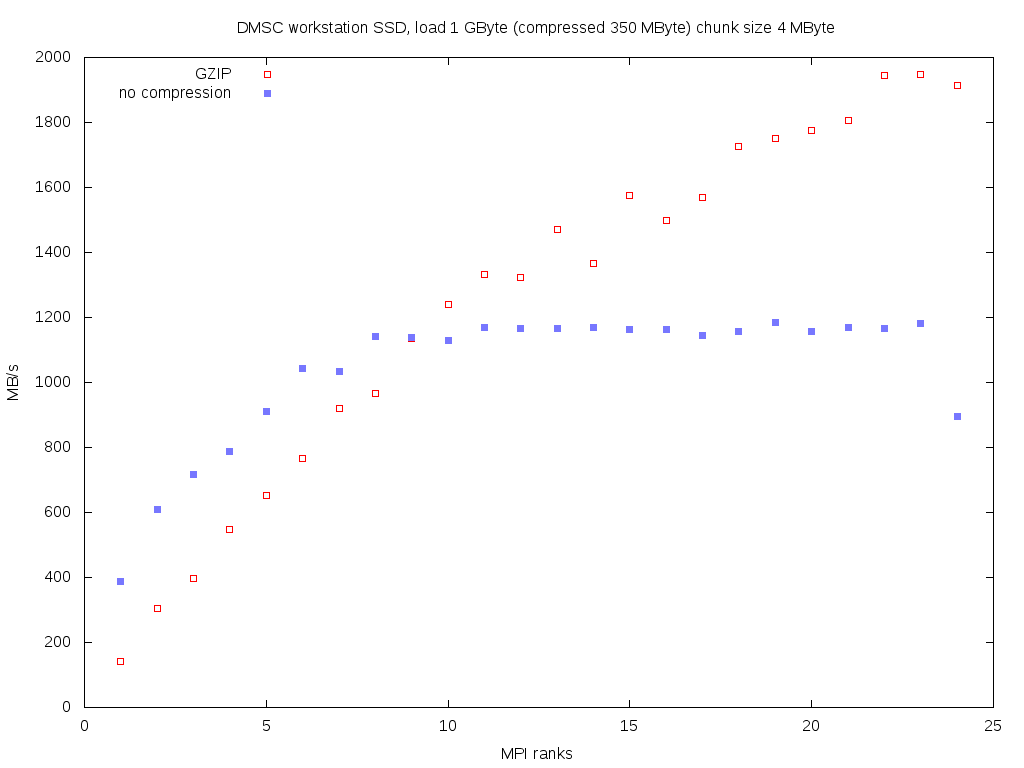
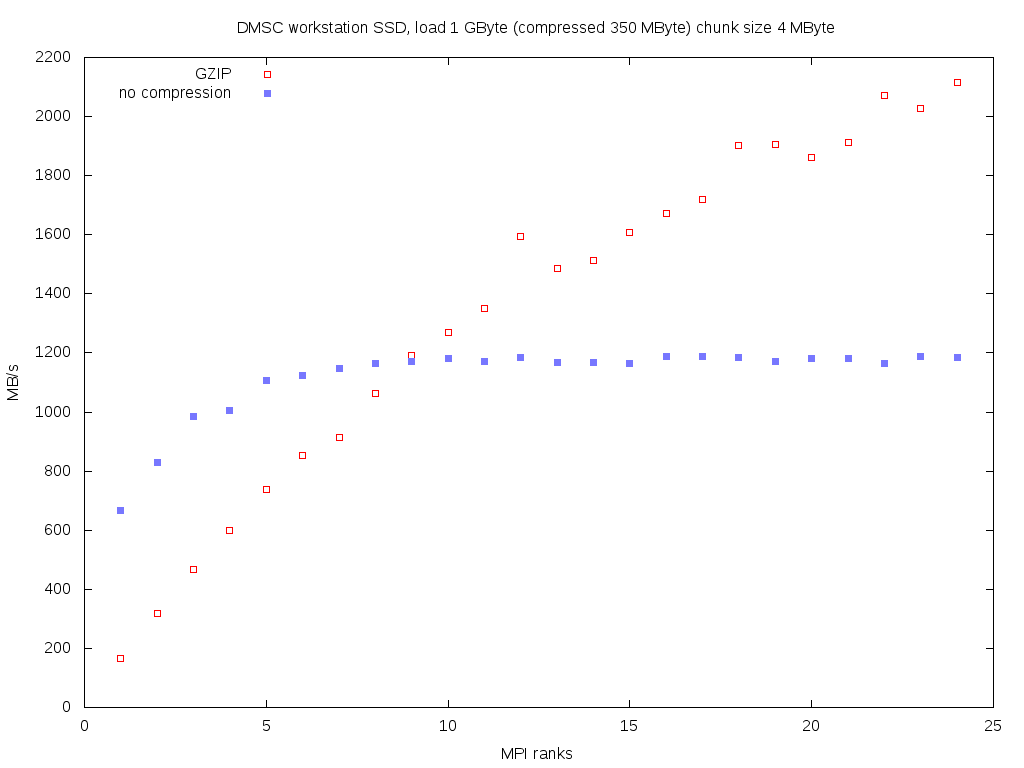
Optimized build, leading to updated results plot.

diff --git a/src/load_parallel.cpp b/src/load_parallel.cpp
@@ -1,5 +1,4 @@
 #include <stdio.h>
-#include <chrono>
 #include <vector>
 
 #include <boost/mpi.hpp>
@@ -14,13 +13,14 @@ int main(int argc, char **argv) {
 
   // /home/simon/mantid/nexus/load-performance/sample-files/no-compression.nxs
   // /home/simon/mantid/nexus/load-performance/sample-files/gzip-level6.nxs
+  // /mnt/extra/simon/neutron-data/VIS_20118.nxs.h5
   H5::H5File file(argv[1], H5F_ACC_RDONLY);
 
   //std::vector<int> banks = {22,  23,  24,  42,  43,  44,  62,  63,
   //                          64,  82,  83,  84,  102, 103, 104, 105,
   //                          106, 123, 124, 143, 144, 164, 184};
 
-  std::vector<int> banks = {28};
+  std::vector<int> banks = {1};
 
   std::string prefix("entry/bank");
   std::string suffix("_events/");
@@ -42,18 +42,12 @@ int main(int argc, char **argv) {
     start += count * comm.size();
     size += data.size() * sizeof(int32_t);
   }
-  }
   /*
-  auto id = read<int32_t>(file, name + "event_id");
-  auto tof = read<float>(file, name + "event_time_offset");
-  {
-  hsize_t start = 0;
-  hsize_t count = 2048*1;
-  while (read<int32_t>(file, name + "event_id", start, count).size() == count) {
-    start += count;
-  }
-  }
+    const auto data = read<int32_t>(file, name + "event_id");
+    size += data.size() * sizeof(int32_t);
   */
+  }
+
   comm.barrier();
 
   double seconds = timer.checkpoint();

diff --git a/src/timer.h b/src/timer.h
@@ -1,6 +1,9 @@
 #ifndef TIMER_H
 #define TIMER_H
 
+#include <chrono>
+#include <vector>
+
 class Timer {
 public:
   /// Create timer and store initial time stamp.
